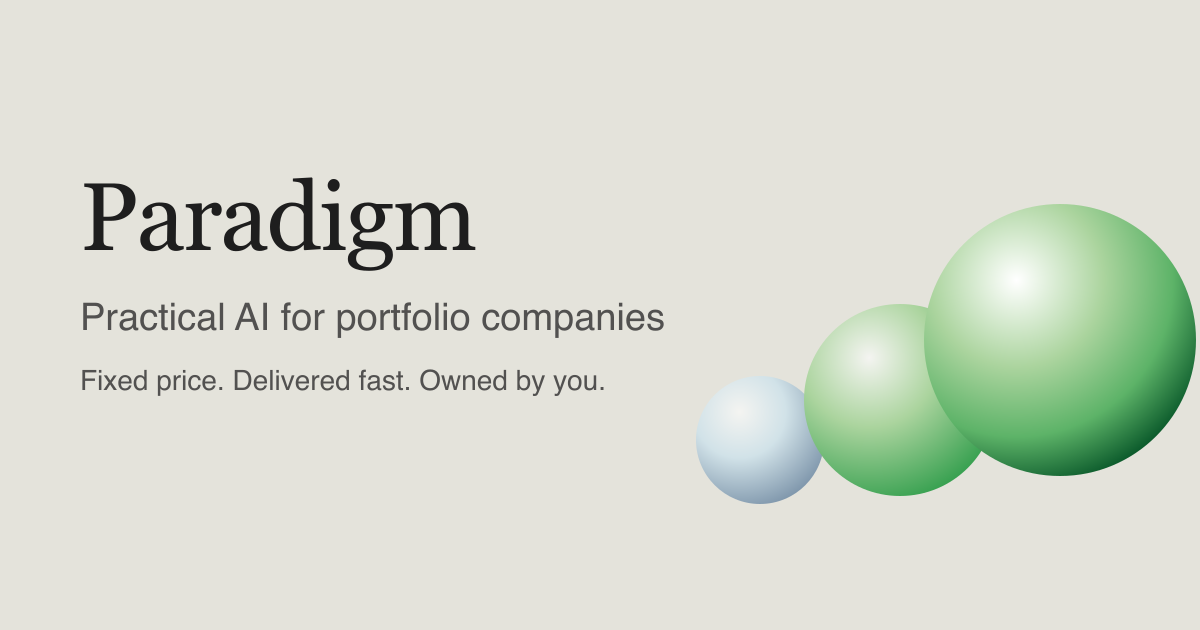
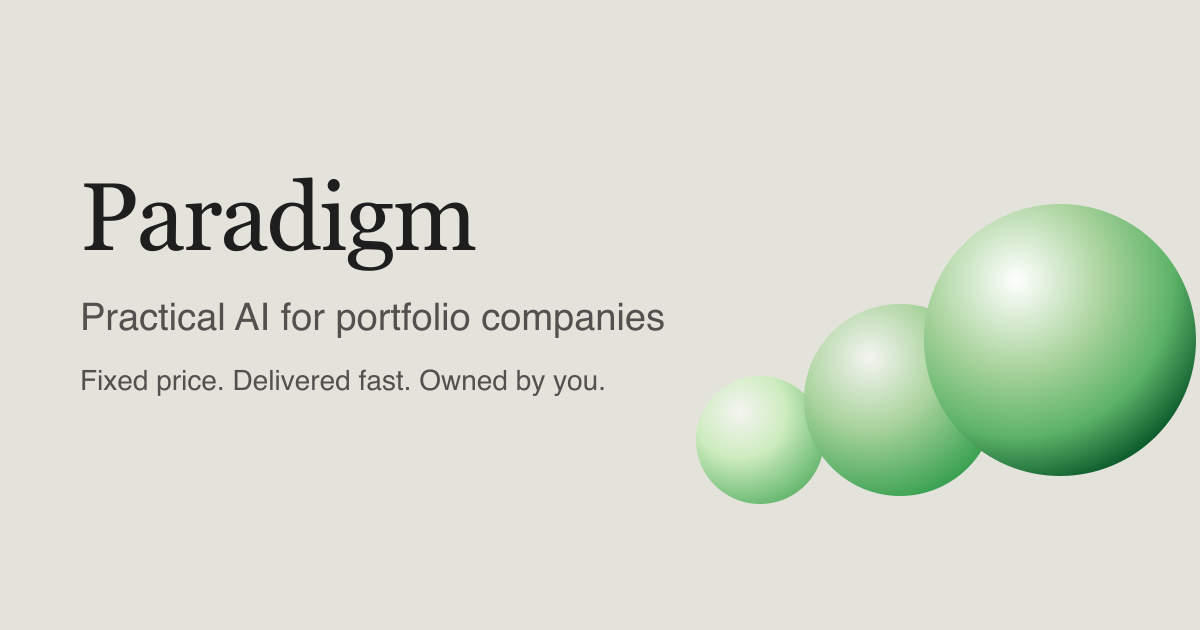
Refine hero, buttons and case study links
All-green orbs, "Book a call" button labels, remove hero clients line,
remove external link from the Awesome Motive case study.

Changed region(s): [[0.555, 0.573, 0.7092, 0.8143]]

diff --git a/app/page.tsx b/app/page.tsx
@@ -13,7 +13,7 @@ function BookButton({ className = "" }: { className?: string }) {
       {...(bookExternal ? { target: "_blank", rel: "noopener noreferrer" } : {})}
       className={`btn btn-primary ${className}`}
     >
-      Book a 30-minute call
+      Book a call
     </a>
   );
 }
@@ -165,9 +165,7 @@ export default function Home() {
                 See our work
               </a>
             </div>
-            <p className="mt-6 text-sm text-ink">
-              A team of 20 engineers. Clients include Skillful.ly and Awesome Motive.
-            </p>
+            <p className="mt-6 text-sm text-ink">A team of 20 engineers.</p>
             <div className="mt-14">
               <Orbs />
             </div>
@@ -282,16 +280,7 @@ export default function Home() {
             </article>
 
             <article className={card}>
-              <h3 className="h3">
-                <a
-                  href="https://awesomemotive.com"
-                  target="_blank"
-                  rel="noopener noreferrer"
-                  className="link"
-                >
-                  Awesome Motive
-                </a>
-              </h3>
+              <h3 className="h3">Awesome Motive</h3>
               <dl className="mt-5 space-y-4 text-ink">
                 <div>
                   <dt className="text-sm font-medium text-carbon">Problem</dt>
@@ -419,7 +408,7 @@ export default function Home() {
         {/* 8. Lab */}
         <Section id="lab">
           <div className="rounded-card border border-line bg-paper p-8 sm:p-10">
-            <p className="inline-block rounded-full bg-mist px-3 py-1 text-sm font-medium text-carbon">
+            <p className="inline-block rounded-full bg-sprout px-3 py-1 text-sm font-medium text-forest">
               Pre-launch
             </p>
             <h2 className="h2 mt-4">From our lab: Montaa</h2>

diff --git a/components/Orbs.tsx b/components/Orbs.tsx
@@ -1,8 +1,8 @@
 const orbs = [
-  { size: 64, bg: "radial-gradient(circle at 32% 28%, #ffffff 0%, #d1e2e8 38%, #99b0c8 100%)" },
+  { size: 64, bg: "radial-gradient(circle at 32% 28%, #ffffff 0%, #e2f5da 38%, #abd49e 100%)" },
   { size: 96, bg: "radial-gradient(circle at 34% 28%, #f4f4f1 0%, #abd49e 45%, #309d4b 100%)" },
   { size: 136, bg: "radial-gradient(circle at 36% 28%, #ffffff 0%, #abd49e 40%, #5db368 72%, #004e23 100%)" },
-  { size: 96, bg: "radial-gradient(circle at 34% 28%, #f4f4f1 0%, #d1e2e8 45%, #7a92a8 100%)" },
+  { size: 96, bg: "radial-gradient(circle at 34% 28%, #f4f4f1 0%, #ceecbf 45%, #5db368 100%)" },
   { size: 64, bg: "radial-gradient(circle at 32% 28%, #ffffff 0%, #e2f5da 40%, #abd49e 100%)" },
 ];
 

diff --git a/components/Header.tsx b/components/Header.tsx
@@ -33,7 +33,7 @@ export function Header() {
             {...(bookExternal ? { target: "_blank", rel: "noopener noreferrer" } : {})}
             className="btn btn-primary hidden !h-10 sm:inline-flex"
           >
-            Book a 30-minute call
+            Book a call
           </a>
           <button
             type="button"
@@ -67,7 +67,7 @@ export function Header() {
                 className="btn btn-primary w-full"
                 onClick={() => setOpen(false)}
               >
-                Book a 30-minute call
+                Book a call
               </a>
             </li>
           </ul>

diff --git a/app/globals.css b/app/globals.css
@@ -16,8 +16,7 @@
   --color-verdant: #309d4b;
   --color-forest: #004e23;
   --color-growth: #abd49e;
-  --color-memory: #99b0c8;
-  --color-mist: #d1e2e8;
+  --color-sprout: #e2f5da;
 
   --radius-card: 16px;
 }

diff --git a/CLAUDE.md b/CLAUDE.md
@@ -19,7 +19,7 @@ GitHub Pages has no backend. The contact form posts to Formspree via `@formspree
 - No email address is shown on the site.
 
 ## Booking link
-`BOOKING_URL` in `lib/site.ts` is empty until the owner supplies a Google Calendar appointment scheduling link. While empty, all "Book a 30-minute call" buttons go to `/#contact`.
+`BOOKING_URL` in `lib/site.ts` is empty until the owner supplies a Google Calendar appointment scheduling link. While empty, all "Book a call" buttons go to `/#contact`.
 
 ## Navigation
 Internal links are absolute (`/#section`, `/privacy/`) so they work from legal pages.

diff --git a/README.md b/README.md
@@ -23,4 +23,4 @@ The custom domain is set by `public/CNAME`.
 ## Configuration
 
 `lib/site.ts` holds the booking link and the contact form ID. While `BOOKING_URL` is empty,
-the "Book a 30-minute call" buttons point to the contact form.
+the "Book a call" buttons point to the contact form.
